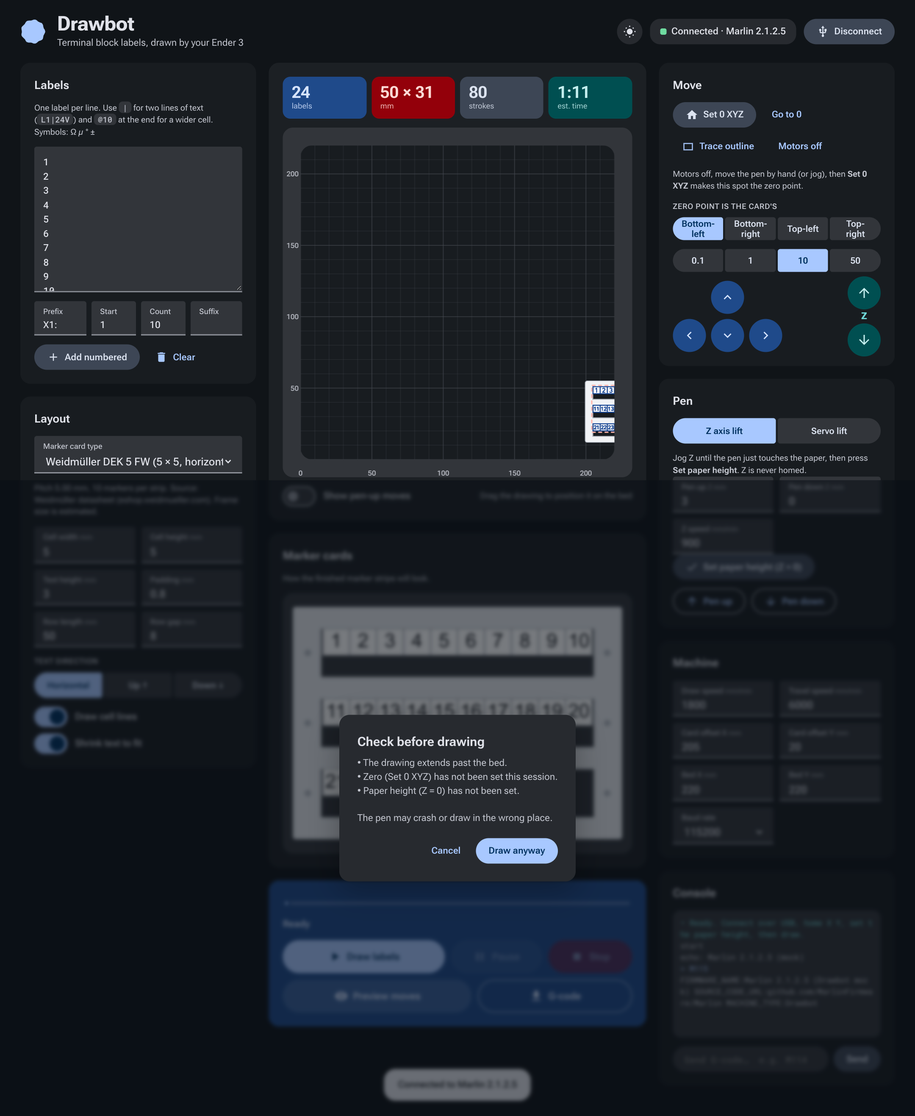
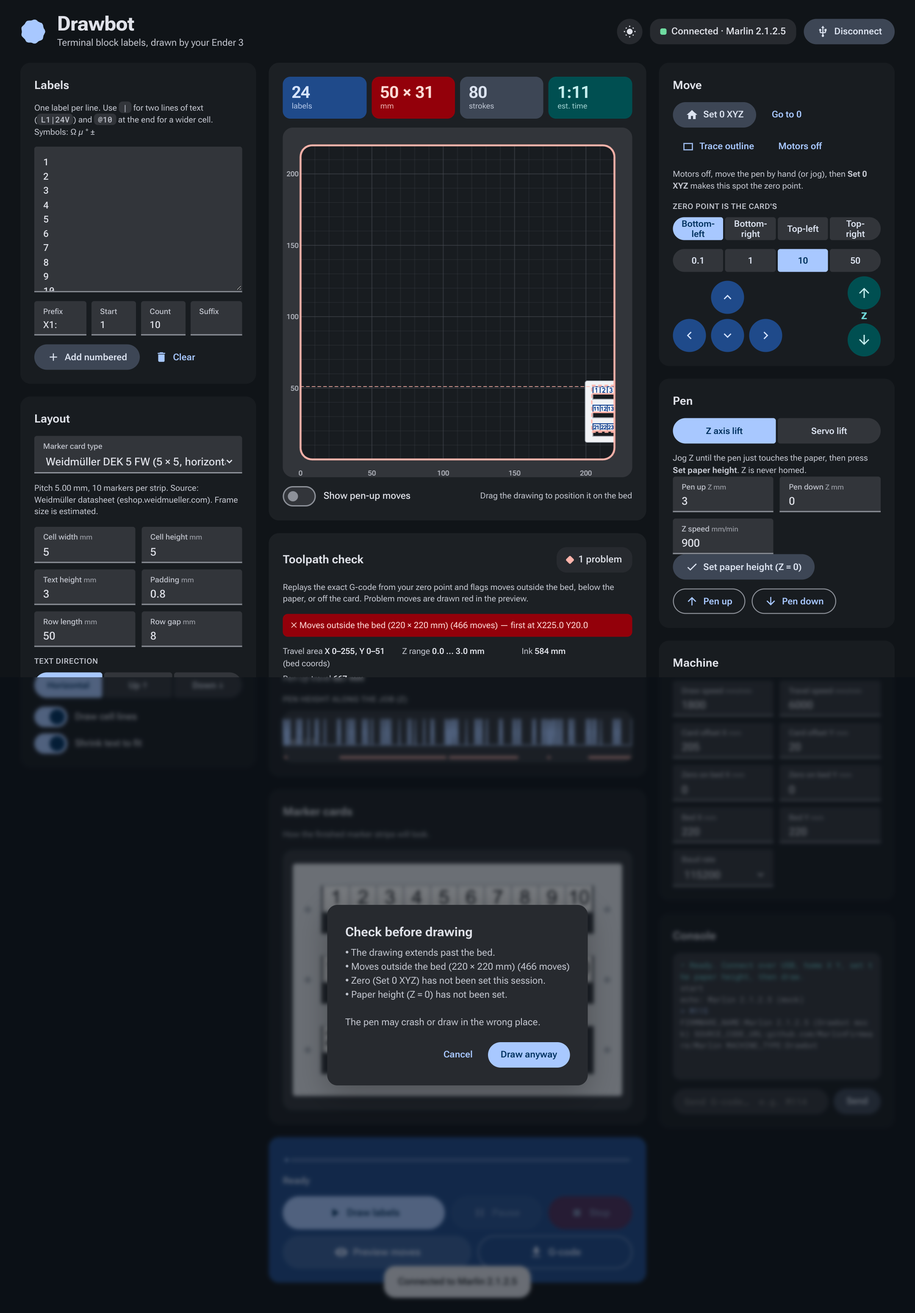
Add toolpath check: G-code replay with bed/Z/card safety checks, zero-on-bed fields, red problem overlay, Z profile

diff --git a/web/app.js b/web/app.js
@@ -8,7 +8,7 @@
   // ---------------------------------------------------------------- state
   const SAVE_KEY = 'drawbot.settings.v1';
   const NUM_IDS = ['cellW', 'cellH', 'textH', 'pad', 'rowLen', 'rowGap', 'zUp', 'zDown', 'zFeed', 'svUp', 'svDown', 'svDelay',
-                   'drawFeed', 'travelFeed', 'ox', 'oy', 'bedW', 'bedH'];
+                   'drawFeed', 'travelFeed', 'ox', 'oy', 'bedW', 'bedH', 'zx', 'zy'];
   const CHECK_IDS = ['borders', 'shrink', 'showTravel'];
   const SEGS = { rotSeg: '90', modeSeg: 'z', stepSeg: '10', anchorSeg: 'bl' };
   const state = { design: null, gc: null, job: null, homed: false, zSet: false, doneStrokes: 0 };
@@ -122,8 +122,38 @@
     const bad = s.ox + d.width > s.bedW + 0.01 || s.oy + d.height > s.bedH + 0.01 || s.ox < 0 || s.oy < 0;
     $('stSize').parentElement.classList.toggle('bad', bad);
     state.outOfBed = bad;
+    runPathCheck();
     if (state.pv) { cancelAnimationFrame(pvRaf); pvRaf = 0; state.pv = null; $('btnPreview').querySelector('span').textContent = 'Preview moves'; }
     draw(); drawBlocks();
+  }
+
+  // ---------------------------------------------------------------- toolpath check
+  function runPathCheck() {
+    const s = settings(), d = state.design;
+    const sh = cardShape(d, num('rowGap', 4));
+    const card = sh ? { x: s.ox + sh.frame.x, y: s.oy + sh.frame.y, w: sh.frame.w, h: sh.frame.h } : null;
+    const p = state.path = window.DBPath.simulate(state.gc.lines, { ...s, zx: num('zx', 0), zy: num('zy', 0) }, card);
+    const ul = $('pathIssues');
+    ul.innerHTML = '';
+    p.issues.forEach(i => { const li = document.createElement('li'); li.className = i.level; li.textContent = (i.level === 'error' ? '✗ ' : '! ') + i.text + (i.count > 1 ? ` (${i.count} moves)` : '') + (i.at ? ` — first at X${i.at[0].toFixed(1)} Y${i.at[1].toFixed(1)}` : ''); ul.appendChild(li); });
+    if (!p.issues.length) { const li = document.createElement('li'); li.className = 'ok'; li.textContent = `✓ All ${p.moves} moves stay on the bed, above the paper and on the card.`; ul.appendChild(li); }
+    const b = p.bbox, zxm = num('zx', 0), zym = num('zy', 0);
+    $('pathStats').innerHTML = `<span>Travel area <b>X ${(b.minX + zxm).toFixed(0)}–${(b.maxX + zxm).toFixed(0)}, Y ${(b.minY + zym).toFixed(0)}–${(b.maxY + zym).toFixed(0)}</b> (bed coords)</span><span>Z range <b>${p.zmin.toFixed(1)} … ${p.zmax.toFixed(1)} mm</b></span><span>Ink <b>${p.drawLen.toFixed(0)} mm</b></span><span>Pen-up travel <b>${p.travelLen.toFixed(0)} mm</b></span>`;
+    const chip = $('pathChip'); chip.className = 'chip ' + (p.errors ? 'err' : p.issues.length ? 'warn' : 'ok');
+    $('pathChipText').textContent = p.errors ? `${p.errors} problem${p.errors > 1 ? 's' : ''}` : p.issues.length ? 'Warnings' : 'Path is safe';
+    drawProfile();
+  }
+  function drawProfile() {
+    const cv2 = $('zProfile'), c2 = cv2.getContext('2d'), p = state.path; if (!p) return;
+    const dpr = window.devicePixelRatio || 1, W = cv2.clientWidth, H = 70; if (!W) return;
+    cv2.width = W * dpr; cv2.height = H * dpr; c2.setTransform(dpr, 0, 0, dpr, 0, 0); c2.clearRect(0, 0, W, H);
+    const zlo = Math.min(-1, p.zmin), zhi = Math.max(1, p.zmax), Y = z => H - 8 - (z - zlo) / (zhi - zlo) * (H - 16);
+    c2.strokeStyle = css('--outline'); c2.lineWidth = 1; c2.setLineDash([4, 3]); c2.beginPath(); c2.moveTo(0, Y(0)); c2.lineTo(W, Y(0)); c2.stroke(); c2.setLineDash([]);
+    c2.fillStyle = css('--on-surface-variant'); c2.font = '500 10px Roboto Flex, sans-serif'; c2.fillText('paper (Z 0)', 4, Y(0) - 3);
+    const n = p.segs.length; if (!n) return;
+    c2.beginPath(); p.segs.forEach((sg, i) => { const px = (i / n) * W; i ? c2.lineTo(px, Y(sg.z0)) : c2.moveTo(px, Y(sg.z0)); c2.lineTo(((i + 1) / n) * W, Y(sg.z1)); });
+    c2.strokeStyle = css('--primary'); c2.lineWidth = 1.5; c2.stroke();
+    p.segs.forEach((sg, i) => { if (sg.bad) { c2.fillStyle = css('--error'); c2.fillRect((i / n) * W, H - 4, Math.max(1, W / n), 4); } });
   }
 
   // ---------------------------------------------------------------- card geometry
@@ -173,7 +203,8 @@
   let geo = { m: 14, scale: 1 };
   const css = n => getComputedStyle(document.documentElement).getPropertyValue(n).trim();
   function draw() {
-    const s = settings(), d = state.design;
+    const s0 = settings(), d = state.design, zx = num('zx', 0), zy = num('zy', 0);
+    const s = { ...s0, ox: s0.ox + zx, oy: s0.oy + zy };   // design position in bed coordinates
     const dpr = window.devicePixelRatio || 1;
     cv.style.aspectRatio = `${s.bedW} / ${s.bedH}`;
     const W = cv.clientWidth, H = cv.clientHeight;
@@ -217,17 +248,18 @@
         const use = Math.min(left, mv.len); left -= use;
         const pts = pointsUpTo(mv.pts, use);
         cx.beginPath();
-        pts.forEach((pt, k) => { const a = P(s.ox + pt[0], s.oy + pt[1]); k ? cx.lineTo(a[0], a[1]) : cx.moveTo(a[0], a[1]); });
-        if (mv.down) { cx.setLineDash([]); cx.strokeStyle = INK; cx.globalAlpha = 1; cx.lineWidth = Math.max(1.4, 0.45 * scale); }
+        pts.forEach((pt, k) => { const a = P(zx + pt[0], zy + pt[1]); k ? cx.lineTo(a[0], a[1]) : cx.moveTo(a[0], a[1]); });
+        if (mv.bad) { cx.setLineDash([]); cx.strokeStyle = css('--error'); cx.globalAlpha = 1; cx.lineWidth = 2.5; }
+        else if (mv.down) { cx.setLineDash([]); cx.strokeStyle = INK; cx.globalAlpha = 1; cx.lineWidth = Math.max(1.4, 0.45 * scale); }
         else { cx.setLineDash([4, 3]); cx.strokeStyle = css('--tertiary'); cx.globalAlpha = .9; cx.lineWidth = 1.2; }
         cx.stroke();
-        if (left <= 0) { const e = P(s.ox + pts[pts.length - 1][0], s.oy + pts[pts.length - 1][1]); cx.setLineDash([]); cx.globalAlpha = 1; cx.fillStyle = mv.down ? INK : css('--tertiary'); cx.beginPath(); cx.arc(e[0], e[1], 4, 0, 7); cx.fill(); }
+        if (left <= 0) { const e = P(zx + pts[pts.length - 1][0], zy + pts[pts.length - 1][1]); cx.setLineDash([]); cx.globalAlpha = 1; cx.fillStyle = mv.down ? INK : css('--tertiary'); cx.beginPath(); cx.arc(e[0], e[1], 4, 0, 7); cx.fill(); }
       }
       cx.setLineDash([]); cx.globalAlpha = 1;
     } else {
       if ($('showTravel').checked) {
         cx.strokeStyle = css('--tertiary'); cx.globalAlpha = .6; cx.lineWidth = 1; cx.setLineDash([3, 3]); cx.beginPath();
-        let cur = P(0, 0); cx.moveTo(cur[0], cur[1]);
+        let cur = P(zx, zy); cx.moveTo(cur[0], cur[1]);
         for (const st of d.strokes) { const a = P(s.ox + st[0][0], s.oy + st[0][1]); cx.lineTo(a[0], a[1]); const b = P(s.ox + st[st.length - 1][0], s.oy + st[st.length - 1][1]); cx.moveTo(b[0], b[1]); }
         cx.stroke(); cx.setLineDash([]); cx.globalAlpha = 1;
       }
@@ -239,7 +271,18 @@
         cx.stroke();
       });
     }
+    // toolpath safety overlay: travel envelope, zero point, problem moves
+    const pth = state.path;
+    if (pth && !state.pv) {
+      const b = pth.bbox, e0 = P(zx + b.minX, zy + b.minY), e1 = P(zx + b.maxX, zy + b.maxY);
+      cx.setLineDash([5, 4]); cx.strokeStyle = pth.errors ? css('--error') : css('--tertiary'); cx.lineWidth = 1.2; cx.globalAlpha = .9;
+      cx.strokeRect(e0[0], e1[1], e1[0] - e0[0], e0[1] - e1[1]); cx.setLineDash([]); cx.globalAlpha = 1;
+      cx.strokeStyle = css('--error'); cx.lineWidth = 2.5;
+      for (const sg of pth.segs) if (sg.bad) { const a1 = P(zx + sg.x0, zy + sg.y0), b1 = P(zx + sg.x1, zy + sg.y1); cx.beginPath(); cx.moveTo(a1[0], a1[1]); cx.lineTo(b1[0], b1[1]); cx.stroke(); }
+    }
+    { const z0 = P(zx, zy); cx.strokeStyle = css('--on-surface'); cx.lineWidth = 1.5; cx.beginPath(); cx.moveTo(z0[0] - 7, z0[1]); cx.lineTo(z0[0] + 7, z0[1]); cx.moveTo(z0[0], z0[1] - 7); cx.lineTo(z0[0], z0[1] + 7); cx.stroke(); cx.beginPath(); cx.arc(z0[0], z0[1], 4, 0, 7); cx.stroke(); }
     cx.restore();
+    if (pth && pth.issues.some(i => i.text.startsWith('Moves outside'))) { cx.strokeStyle = css('--error'); cx.lineWidth = 3; cx.beginPath(); cx.roundRect(m, H - m - s.bedH * scale, s.bedW * scale, s.bedH * scale, 18); cx.stroke(); }
 
     // axis labels
     cx.fillStyle = css('--on-surface-variant'); cx.font = '500 11px Roboto Flex, sans-serif'; cx.textAlign = 'center';
@@ -257,18 +300,14 @@
     }
     return out;
   }
-  function buildMoves(strokes) {
-    const moves = []; let cur = [-state_ox(), -state_oy()], total = 0;   // start from the machine origin (0,0)
-    for (const st of strokes) {
-      const t = [cur, st[0]], tl = Math.hypot(st[0][0] - cur[0], st[0][1] - cur[1]);
-      if (tl > 0.01) { moves.push({ pts: t, len: tl, down: false }); total += tl; }
-      let dl = 0; for (let i = 1; i < st.length; i++) dl += Math.hypot(st[i][0] - st[i - 1][0], st[i][1] - st[i - 1][1]);
-      moves.push({ pts: st, len: Math.max(dl, 0.01), down: true }); total += Math.max(dl, 0.01);
-      cur = st[st.length - 1];
+  function buildMoves() {
+    const moves = []; let total = 0;
+    for (const sg of state.path.segs) {
+      const len = Math.hypot(sg.x1 - sg.x0, sg.y1 - sg.y0); if (len < 1e-3) continue;
+      moves.push({ pts: [[sg.x0, sg.y0], [sg.x1, sg.y1]], len, down: sg.down, bad: sg.bad }); total += len;
     }
     return { moves, total };
   }
-  const state_ox = () => num('ox', 20), state_oy = () => num('oy', 20);
   let pvRaf = 0;
   function stopPreview(keep) {
     cancelAnimationFrame(pvRaf); pvRaf = 0;
@@ -278,7 +317,7 @@
   }
   function startPreview() {
     if (!state.design.strokes.length) return;
-    const { moves, total } = buildMoves(state.design.strokes);
+    const { moves, total } = buildMoves();
     const speed = Math.max(total / 8, 60);            // whole run takes ~8 s, never slower than 60 mm/s
     state.pv = { moves, total, pos: 0 };
     $('btnPreview').querySelector('span').textContent = 'Skip to end';
@@ -294,11 +333,11 @@
   $('btnPreview').onclick = () => {
     if (pvRaf) { state.pv.pos = state.pv.total; stopPreview(true); } else startPreview();
   };
-  window.addEventListener('resize', () => { draw(); drawBlocks(); });
+  window.addEventListener('resize', () => { draw(); drawBlocks(); drawProfile(); });
   function setTheme(t, persist) {
     document.documentElement.dataset.theme = t;
     if (persist) { try { localStorage.setItem('drawbot.theme', t); } catch (e) { /* private mode */ } }
-    draw(); drawBlocks(); kickWave();
+    draw(); drawBlocks(); drawProfile(); kickWave();
   }
   $('btnTheme').addEventListener('click', () => setTheme(document.documentElement.dataset.theme === 'dark' ? 'light' : 'dark', true));
   matchMedia('(prefers-color-scheme: dark)').addEventListener('change', e => {
@@ -461,6 +500,7 @@
     if (!state.design.strokes.length) { toast('Nothing to draw — add some labels.'); return; }
     const warn = [];
     if (state.outOfBed) warn.push('• The drawing extends past the bed.');
+    (state.path ? state.path.issues : []).forEach(i => warn.push('• ' + i.text + (i.count > 1 ? ` (${i.count} moves)` : '')));
     if (!state.homed) warn.push('• Zero (Set 0 XYZ) has not been set this session.');
     if (settings().penMode === 'z' && !state.zSet) warn.push('• Paper height (Z = 0) has not been set.');
     if (warn.length && !(await confirmDlg('Check before drawing', warn.join('\n') + '\n\nThe pen may crash or draw in the wrong place.', 'Draw anyway'))) return;
@@ -506,7 +546,7 @@
   // ---------------------------------------------------------------- wiring
   const DESIGN_IDS = ['labels', 'cellW', 'cellH', 'textH', 'pad', 'rowLen', 'rowGap', 'borders', 'shrink'];
   DESIGN_IDS.forEach(id => $(id).addEventListener('input', () => { relayout(); save(); }));
-  ['zUp', 'zDown', 'zFeed', 'svUp', 'svDown', 'svDelay', 'drawFeed', 'travelFeed', 'ox', 'oy', 'bedW', 'bedH', 'showTravel', 'baud', 'genPrefix', 'genStart', 'genCount', 'genSuffix']
+  ['zUp', 'zDown', 'zFeed', 'svUp', 'svDown', 'svDelay', 'drawFeed', 'travelFeed', 'ox', 'oy', 'zx', 'zy', 'bedW', 'bedH', 'showTravel', 'baud', 'genPrefix', 'genStart', 'genCount', 'genSuffix']
     .forEach(id => $(id).addEventListener('input', () => { regen(); save(); }));
 
   load(); syncMode();

diff --git a/web/toolpath.js b/web/toolpath.js
@@ -1,0 +1,46 @@
+/* Toolpath simulation: replays the generated G-code (from the pen's zero point) and reports anything unsafe. */
+(function (g) {
+  /**
+   * lines: G-code lines. s: settings (penMode, zDown, zUp, svUp, svDown, bedW, bedH) + zx, zy = where the zero point sits on the bed (mm).
+   * card: optional {x,y,w,h} frame rectangle in work coordinates; ink outside it is flagged.
+   */
+  function simulate(lines, s, card) {
+    const zx = s.zx || 0, zy = s.zy || 0, tol = 0.01;
+    let x = 0, y = 0, z = 0, rel = false, servo = null;
+    const segs = [], bad = {};
+    const issue = (key, level, text, at) => { const b = bad[key] || (bad[key] = { level, text, at, count: 0 }); b.count++; };
+    let minX = Infinity, maxX = -Infinity, minY = Infinity, maxY = -Infinity, zmin = 0, zmax = 0, drawLen = 0, travelLen = 0, moves = 0;
+    const isDown = () => s.penMode === 'servo' ? (servo !== null && Math.abs(servo - s.svDown) < Math.abs(servo - s.svUp)) : z <= s.zDown + 0.05;
+    const grow = (px, py) => { minX = Math.min(minX, px); maxX = Math.max(maxX, px); minY = Math.min(minY, py); maxY = Math.max(maxY, py); };
+    grow(0, 0);
+    for (const raw of lines) {
+      const l = raw.replace(/;.*$/, '').trim(); if (!l) continue;
+      const w = l.split(/\s+/), cmd = w[0].toUpperCase();
+      const val = a => { const t = w.find(q => q[0].toUpperCase() === a); return t ? parseFloat(t.slice(1)) : undefined; };
+      if (cmd === 'G90') rel = false; else if (cmd === 'G91') rel = true;
+      else if (cmd === 'M280') servo = val('S');
+      else if (cmd === 'G0' || cmd === 'G1') {
+        const nx = val('X'), ny = val('Y'), nz = val('Z');
+        const X = nx === undefined ? x : rel ? x + nx : nx, Y = ny === undefined ? y : rel ? y + ny : ny, Z = nz === undefined ? z : rel ? z + nz : nz;
+        const xy = Math.hypot(X - x, Y - y), dz = Math.abs(Z - z);
+        if (xy > 1e-6 || dz > 1e-6) {
+          moves++;
+          const wasDown = isDown(), seg = { x0: x, y0: y, z0: z, x1: X, y1: Y, z1: Z, kind: xy > 1e-6 ? (wasDown && isDown2(Z) ? 'draw' : 'travel') : 'z', bad: false };
+          function isDown2(zz) { return s.penMode === 'servo' ? wasDown : zz <= s.zDown + 0.05; }
+          seg.down = seg.kind === 'draw';
+          if (seg.kind === 'draw') drawLen += xy; else if (seg.kind === 'travel') travelLen += xy;
+          const mx = X + zx, my = Y + zy;
+          if (mx < -tol || mx > s.bedW + tol || my < -tol || my > s.bedH + tol) { seg.bad = true; issue('bed', 'error', `Moves outside the bed (${s.bedW} × ${s.bedH} mm)`, [X, Y]); }
+          if (seg.kind === 'draw' && cmd === 'G0') { seg.bad = true; issue('rapid', 'error', 'Rapid (G0) move with the pen down', [X, Y]); }
+          if (s.penMode !== 'servo' && Z < -0.05) { seg.bad = true; issue('zlow', 'error', 'Z goes below the paper surface (Z < 0) and would push into the bed', [X, Y]); }
+          if (seg.kind === 'draw' && card && (X < card.x - 0.5 || X > card.x + card.w + 0.5 || Y < card.y - 0.5 || Y > card.y + card.h + 0.5)) { seg.bad = true; issue('card', 'warn', 'Ink lands outside the card', [X, Y]); }
+          segs.push(seg); x = X; y = Y; z = Z; grow(x, y); zmin = Math.min(zmin, z); zmax = Math.max(zmax, z);
+        }
+      }
+    }
+    if (s.penMode !== 'servo' && s.zDown > 0.3) issue('zhigh', 'warn', `Pen-down Z is ${s.zDown} mm: the pen may not reach the paper`, null);
+    const issues = Object.values(bad);
+    return { segs, issues, errors: issues.filter(i => i.level === 'error').length, bbox: { minX, maxX, minY, maxY }, zmin, zmax, drawLen, travelLen, moves };
+  }
+  g.DBPath = { simulate };
+})(window);

diff --git a/web/index.html b/web/index.html
@@ -110,6 +110,15 @@
       </div>
     </article>
 
+    <article class="card path" id="pathCard">
+      <div class="row between"><h2>Toolpath check</h2><span class="chip" id="pathChip"><i class="dot"></i><span id="pathChipText">—</span></span></div>
+      <p class="hint">Replays the exact G-code from your zero point and flags moves outside the bed, below the paper, or off the card. Problem moves are drawn red in the preview.</p>
+      <ul class="issues" id="pathIssues"></ul>
+      <div class="pathstats" id="pathStats"></div>
+      <div class="label-s">Pen height along the job (Z)</div>
+      <div class="tb-wrap"><canvas id="zProfile" height="70"></canvas></div>
+    </article>
+
     <article class="card tb">
       <h2>Marker cards</h2>
       <p class="hint">How the finished marker strips will look.</p>
@@ -196,6 +205,8 @@
         <label class="field"><span>Travel speed <small>mm/min</small></span><input id="travelFeed" type="number" step="500" value="6000"></label>
         <label class="field"><span>Card offset X <small>mm</small></span><input id="ox" type="number" step="1" value="20"></label>
         <label class="field"><span>Card offset Y <small>mm</small></span><input id="oy" type="number" step="1" value="20"></label>
+        <label class="field"><span>Zero on bed X <small>mm</small></span><input id="zx" type="number" step="1" value="0"></label>
+        <label class="field"><span>Zero on bed Y <small>mm</small></span><input id="zy" type="number" step="1" value="0"></label>
         <label class="field"><span>Bed X <small>mm</small></span><input id="bedW" type="number" value="220"></label>
         <label class="field"><span>Bed Y <small>mm</small></span><input id="bedH" type="number" value="220"></label>
         <label class="field"><span>Baud rate</span>
@@ -221,6 +232,7 @@
 <script src="font.js"></script>
 <script src="layout.js"></script>
 <script src="gcode.js"></script>
+<script src="toolpath.js"></script>
 <script src="serial.js"></script>
 <script src="mock-serial.js"></script>
 <script src="app.js"></script>

diff --git a/tests/e2e.js b/tests/e2e.js
@@ -238,6 +238,23 @@ async function runDataset(browser, ds, i) {
   check('Zero point', 'top-right anchor shifts the drawing so that corner sits at the offset', gcBL !== gcTR && negs, `${gcBL} -> ${gcTR}`);
   await page.close();
 
+  // Toolpath check
+  page = await setup(browser, { ds: DATASETS[0] });
+  const okTxt = await text(page, '#pathIssues');
+  check('Toolpath', 'safe job reports no problems', /All \d+ moves stay on the bed/.test(okTxt) && /Path is safe/.test(await text(page, '#pathChipText')), okTxt.slice(0, 60));
+  await shot(page, '13-toolpath-ok');
+  await setVal(page, 'zx', 190);     // zero point 190 mm along the bed -> card runs off the edge
+  const edge = await text(page, '#pathIssues');
+  check('Toolpath', 'zero near the bed edge flags moves outside the bed', /outside the bed/.test(edge), edge.slice(0, 80));
+  await shot(page, '14-toolpath-outside-bed');
+  await setVal(page, 'zx', 0); await setVal(page, 'zDown', -2);
+  check('Toolpath', 'negative pen-down Z is flagged as below the paper', /below the paper/.test(await text(page, '#pathIssues')));
+  await setVal(page, 'zDown', 0); await setVal(page, 'ox', 5); await setVal(page, 'oy', 5);
+  check('Toolpath', 'back to safe values clears the problems', /Path is safe/.test(await text(page, '#pathChipText')));
+  await page.click('#anchorSeg button[data-v="tr"]');
+  check('Toolpath', 'top-right anchor with small offset leaves the bed (negative X/Y relative to zero is fine, bed edge is not)', /outside the bed|Path is safe/.test(await text(page, '#pathChipText') + await text(page, '#pathIssues')));
+  await page.close();
+
   // Card type presets
   page = await setup(browser);
   await page.select('#cardType', 'zb5'); await sleep(200);

diff --git a/web/styles.css b/web/styles.css
@@ -186,3 +186,14 @@ dialog p { margin: 0 0 20px; color: var(--on-surface-variant); white-space: pre-
 .card.tb { background: var(--sc); }
 .tb-wrap { border-radius: var(--r-l); overflow: hidden; background: var(--sc-highest); padding: 6px 0; }
 #tbView { display: block; width: 100%; }
+
+/* ---------- toolpath check ---------- */
+.card.path { background: var(--sc); }
+.issues { list-style: none; margin: 0; padding: 0; display: flex; flex-direction: column; gap: 6px; }
+.issues li { padding: 8px 12px; border-radius: var(--r-s); background: var(--sc-high); font-size: 13.5px; }
+.issues li.error { background: var(--error-container); color: var(--on-error-container); }
+.issues li.warn { background: var(--tertiary-container); color: var(--on-tertiary-container); }
+.issues li.ok { background: color-mix(in srgb, var(--ok) 22%, transparent); }
+.pathstats { display: grid; grid-template-columns: repeat(auto-fill, minmax(150px, 1fr)); gap: 6px 14px; font-size: 13px; color: var(--on-surface-variant); }
+.pathstats b { color: var(--on-surface); font-weight: 600; }
+#zProfile { display: block; width: 100%; height: 70px; }

diff --git a/docs/TEST_RESULTS.md b/docs/TEST_RESULTS.md
@@ -2,7 +2,7 @@
 
 Generated by `tests/e2e.js` (headless Chrome → real UI → simulated Marlin, `?mock` demo mode).
 
-**74/74 checks passed.**
+**79/79 checks passed.**
 
 ## UI
 
@@ -36,7 +36,7 @@ Generated by `tests/e2e.js` (headless Chrome → real UI → simulated Marlin, `
 | ✅ | layout produced every label | (11/11 labels, 86 strokes, 709 mm of ink) |
 | ✅ | design fits on the bed | (45×58 mm at 20,20) |
 | ✅ | connected and detected Marlin | ("Connected · Marlin 2.1.2.5") |
-| ✅ | every G-code line was acknowledged | (784/784 commands in 0.2s) |
+| ✅ | every G-code line was acknowledged | (784/784 commands in 0.1s) |
 | ✅ | never overflowed Marlin's 128-byte RX buffer | (peak 74 bytes, 0 overflows) |
 | ✅ | ink length matches design | (709.3 mm drawn vs 709.4 mm designed) |
 | ✅ | one pen-down per stroke | (86/86) |
@@ -70,7 +70,7 @@ Generated by `tests/e2e.js` (headless Chrome → real UI → simulated Marlin, `
 | ✅ | layout produced every label | (40/40 labels, 133 strokes, 1294 mm of ink) |
 | ✅ | design fits on the bed | (100×28 mm at 20,20) |
 | ✅ | connected and detected Marlin | ("Connected · Marlin 2.1.2.5") |
-| ✅ | every G-code line was acknowledged | (2110/2110 commands in 0.3s) |
+| ✅ | every G-code line was acknowledged | (2110/2110 commands in 0.2s) |
 | ✅ | never overflowed Marlin's 128-byte RX buffer | (peak 78 bytes, 0 overflows) |
 | ✅ | ink length matches design | (1293.7 mm drawn vs 1293.6 mm designed) |
 | ✅ | one pen-down per stroke | (133/133) |
@@ -87,7 +87,7 @@ Generated by `tests/e2e.js` (headless Chrome → real UI → simulated Marlin, `
 | ✅ | layout produced every label | (1/1 labels, 2 strokes, 9 mm of ink) |
 | ✅ | design fits on the bed | (5×5 mm at 20,20) |
 | ✅ | connected and detected Marlin | ("Connected · Marlin 2.1.2.5") |
-| ✅ | every G-code line was acknowledged | (14/14 commands in 0.1s) |
+| ✅ | every G-code line was acknowledged | (14/14 commands in 0.0s) |
 | ✅ | never overflowed Marlin's 128-byte RX buffer | (peak 70 bytes, 0 overflows) |
 | ✅ | ink length matches design | (8.5 mm drawn vs 8.5 mm designed) |
 | ✅ | one pen-down per stroke | (2/2) |
@@ -99,7 +99,7 @@ Generated by `tests/e2e.js` (headless Chrome → real UI → simulated Marlin, `
 
 | | Check | Detail |
 |---|---|---|
-| ✅ | no commands run while paused | (273 → 273) |
+| ✅ | no commands run while paused | (272 → 272) |
 | ✅ | UI reports Done only after the last command executed |  |
 | ✅ | job completes after resume with correct ink | (583.6 vs 583.5 mm) |
 
@@ -137,6 +137,16 @@ Generated by `tests/e2e.js` (headless Chrome → real UI → simulated Marlin, `
 |---|---|---|
 | ✅ | Set 0 XYZ sends G92 and is not G28 |  |
 | ✅ | top-right anchor shifts the drawing so that corner sits at the offset | G1 X25 Y10 F1800 -> G1 X10 Y5 F1800 |
+
+## Toolpath
+
+| | Check | Detail |
+|---|---|---|
+| ✅ | safe job reports no problems | ✓ All 725 moves stay on the bed, above the paper and on the  |
+| ✅ | zero near the bed edge flags moves outside the bed | ✗ Moves outside the bed (220 × 220 mm) (579 moves) — first at X40.0 Y20.0 |
+| ✅ | negative pen-down Z is flagged as below the paper |  |
+| ✅ | back to safe values clears the problems |  |
+| ✅ | top-right anchor with small offset leaves the bed (negative X/Y relative to zero is fine, bed edge is not) |  |
 
 ## Card types
 

diff --git a/README.md b/README.md
@@ -9,9 +9,9 @@ firmware/   apply_drawbot.py — patches stock Marlin 2.1.x Ender-3 config for p
 
 ![Overview](docs/screenshots/00-overview.png)
 
-| Move preview (running) | Move preview (all moves) |
-|---|---|
-| ![](docs/screenshots/11-move-preview-running.png) | ![](docs/screenshots/12-move-preview-done.png) |
+| Move preview (running) | Toolpath check (safe) | Toolpath check (leaves the bed) |
+|---|---|---|
+| ![](docs/screenshots/11-move-preview-running.png) | ![](docs/screenshots/13-toolpath-ok.png) | ![](docs/screenshots/14-toolpath-outside-bed.png) |
 
 | Connected & ready | Paused mid-job (35%) | Finished |
 |---|---|---|
@@ -59,6 +59,6 @@ On 4.2.x boards, if compile complains about a missing sensor with `TEMP_SENSOR_0
 
 ## Label syntax
 One label per line · `L1|24V` = two text lines · `PE@8` = 8 mm wide cell · **Add numbered** generates `X1:1…`.
-Font is a built-in single-stroke font (A–Z, 0–9, `- + = . , : / ( ) % & # @ Ω µ ° ±`…). Pick a **Marker card type** (Weidmüller DEK 5 FW and DEK 5/3,5; Phoenix ZB 5/6/8/10 and flat ZBF 5/6/8 — sizes from the manufacturers' product pages) or enter your own cell size. Default is DEK 5 FW: 5 × 5 mm cells, 10 per strip; the preview draws the ladder frame (5.5 mm rails, slots, crossbars) estimated from photos — adjust `CARD` in `web/app.js` if your cards differ; switch to Up/Down for narrower cells. The bed preview draws the white cards with the pen strokes on them, the **Marker cards** panel shows the finished strips, and **Preview moves** animates every pen-down stroke and pen-up travel (dashed) without touching the printer.
+Font is a built-in single-stroke font (A–Z, 0–9, `- + = . , : / ( ) % & # @ Ω µ ° ±`…). Pick a **Marker card type** (Weidmüller DEK 5 FW and DEK 5/3,5; Phoenix ZB 5/6/8/10 and flat ZBF 5/6/8 — sizes from the manufacturers' product pages) or enter your own cell size. Default is DEK 5 FW: 5 × 5 mm cells, 10 per strip; the preview draws the ladder frame (5.5 mm rails, slots, crossbars) estimated from photos — adjust `CARD` in `web/app.js` if your cards differ; switch to Up/Down for narrower cells. The bed preview draws the white cards with the pen strokes on them, the **Marker cards** panel shows the finished strips, **Toolpath check** replays the exact G-code from your zero point (set where the zero sits on the bed in Machine → *Zero on bed X/Y*) and flags moves outside the bed, Z below the paper, rapid moves with the pen down and ink off the card, drawing problems in red; **Preview moves** animates every pen-down stroke and pen-up travel (dashed) without touching the printer.
 
 Stop sends `M410` and lifts the pen. Settings persist in the browser. **Not tested against a real printer** — try a dry run with the pen up first.
